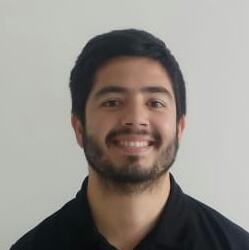
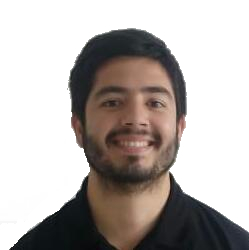
Updated

diff --git a/career.md b/career.md
@@ -3,8 +3,23 @@ title: Career
 permalink: /career/
 ---
 
+![](/images/others/yatiris_lab.jpg)
+
+### Open positions
+
+We always look for enthusiastic and succesfull PhD candidates with excellent grades, a passion for science and research and very good communication and technical skills. A master degree in computer science, applied mathematics or a related field is required.
+
+Interested candidates should send (i) a CV, (ii) a motivation letter, and (ii) if applicable, a copy of a published paper or masters thesis to
+[yatirisARG@gmail.com](mailto:yatirisARG@gmail.com) with "PhD Application" in the subject line.
+
+If you are an international student, have in mind that PhD positions in Argentina are funded through scholarships granted by third-party institutions
+such as [CONICET](https://www.conicet.gov.ar/?lan=en) or [CIC-PBA](https://www.gba.gob.ar/cic). In that case, an application has to be fullfil and submitted, and the PhD position is only granted in case the scholarship is granted.
 
 
-### Career
+#### Becas y otras posiciones disponibles
 
-Currently we don't have any open positions.
+Actualmente no tenemos convocatorias a becas u otras posiciones disponibles.
+
+#### Tesis de grado
+
+Podés encontrar los temas de tesis de grado disponibles [acá](https://www.exa.unicen.edu.ar/es/piexa/banco-tesis?fbclid=IwAR1BIL_KaQu2l5eW9_qcoZyj0upEkYhDkvVXucW0TrXw6okvpQN9mGXbAiQ).

diff --git a/people.md b/people.md
@@ -41,4 +41,5 @@ permalink: /people/
 
 | Who are they | When were they here | Where they went |
 | :------------- |:-------------| :-----------|
-| [Lucas Lo Vercio](http://www.pladema.net/llovercio/) | Ph.D. student and Postdoc (2012-2017) | Postdoc at University of Calgari
+| [Lucas Lo Vercio](http://www.pladema.net/llovercio/) | Ph.D. student and Postdoc (2012-2017) | Postdoc at University of Calgari (Canada)
+| Pablo Rubí | Ph.D. student (2016-2017) | Software Engineer at Amazon (Seattle, USA)

diff --git a/publications.md b/publications.md
@@ -3,6 +3,8 @@ title: Publication
 permalink: /publication/
 ---
 
+![](/images/others/whiteboard.jpg)
+
 ### Publications
 
 We try to include links for all of our papers. Some of the links open PDFs, others direct you to a journal's site where that particular publication is available for download. If you cannot access one of our papers, let us know. The copyright notice for these papers is listed at the bottom of the page.

diff --git a/_people/hernan_kulsgaard.md b/_people/hernan_kulsgaard.md
@@ -1,7 +1,7 @@
 ---
 name: Hernán Kulsgaard
 position: phdstudent
-avatar: ari_benjamin.jpg
+avatar: hernan_kulsgaard.jpg
 twitter:
 joined: 2016
 ---
@@ -10,7 +10,7 @@ joined: 2016
 
 ### Contact
 
-<i class="fa fa-envelope-o"></i>  `svitale@conicet.gov.ar`<br>
+<i class="fa fa-envelope-o"></i>  ``<br>
 <i class="fa fa-building"></i> Pladema (new wing) <br>
 
 <hr>

diff --git a/our-projects.md b/our-projects.md
@@ -1,10 +1,10 @@
 ---
-title: Our-projects
+title: Our projects
 permalink: /our-projects/
 ---
 
 
-![Here we will put a picture of a whiteboard full of equations](/images/people/staff.png)
+![](/images/others/whiteboard.jpg)
 
 ### Our projects
 

diff --git a/news.md b/news.md
@@ -3,6 +3,8 @@ title: News
 permalink: /news/
 ---
 
+![](/images/others/yatiris_lab.jpg)
+
 ## **News from the lab**
 
 Find here our latest news, both in English and Spanish!

diff --git a/_people/romina_munioz.md b/_people/romina_munioz.md
@@ -1,7 +1,7 @@
 ---
 name: Romina Luciana Muñoz
 position: phdstudent
-avatar: ari_benjamin.jpg
+avatar: romina_munioz.jpg
 twitter:
 joined: 2018
 ---

diff --git a/_people/delfina_braggio.md b/_people/delfina_braggio.md
@@ -1,7 +1,7 @@
 ---
 name: Delfina Braggio
 position: phdstudent
-avatar: ari_benjamin.jpg
+avatar: delfina_braggio.jpg
 twitter:
 joined: 2016
 ---

diff --git a/_people/nicolas_dazeo.md b/_people/nicolas_dazeo.md
@@ -1,7 +1,7 @@
 ---
 name: Nicolás Dazeo
 position: phdstudent
-avatar: ari_benjamin.jpg
+avatar: nicolas_dazeo.jpg
 twitter:
 joined: 2015
 ---

diff --git a/_people/eugenia_moris.md b/_people/eugenia_moris.md
@@ -1,7 +1,7 @@
 ---
 name: Eugenia Moris
 position: undergrad
-avatar: ari_benjamin.jpg
+avatar: euge_moris.jpg
 twitter:
 joined: 2018
 ---
